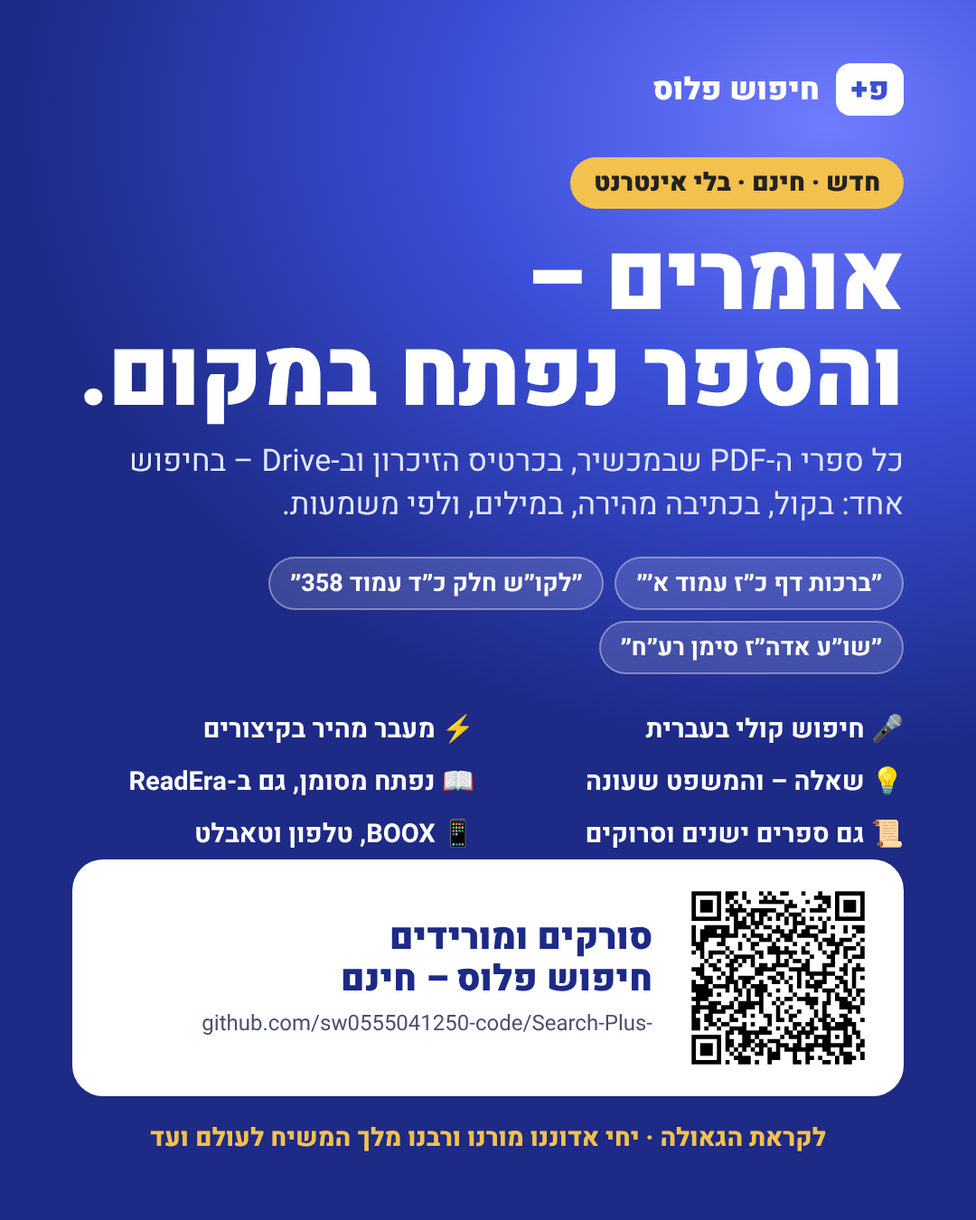
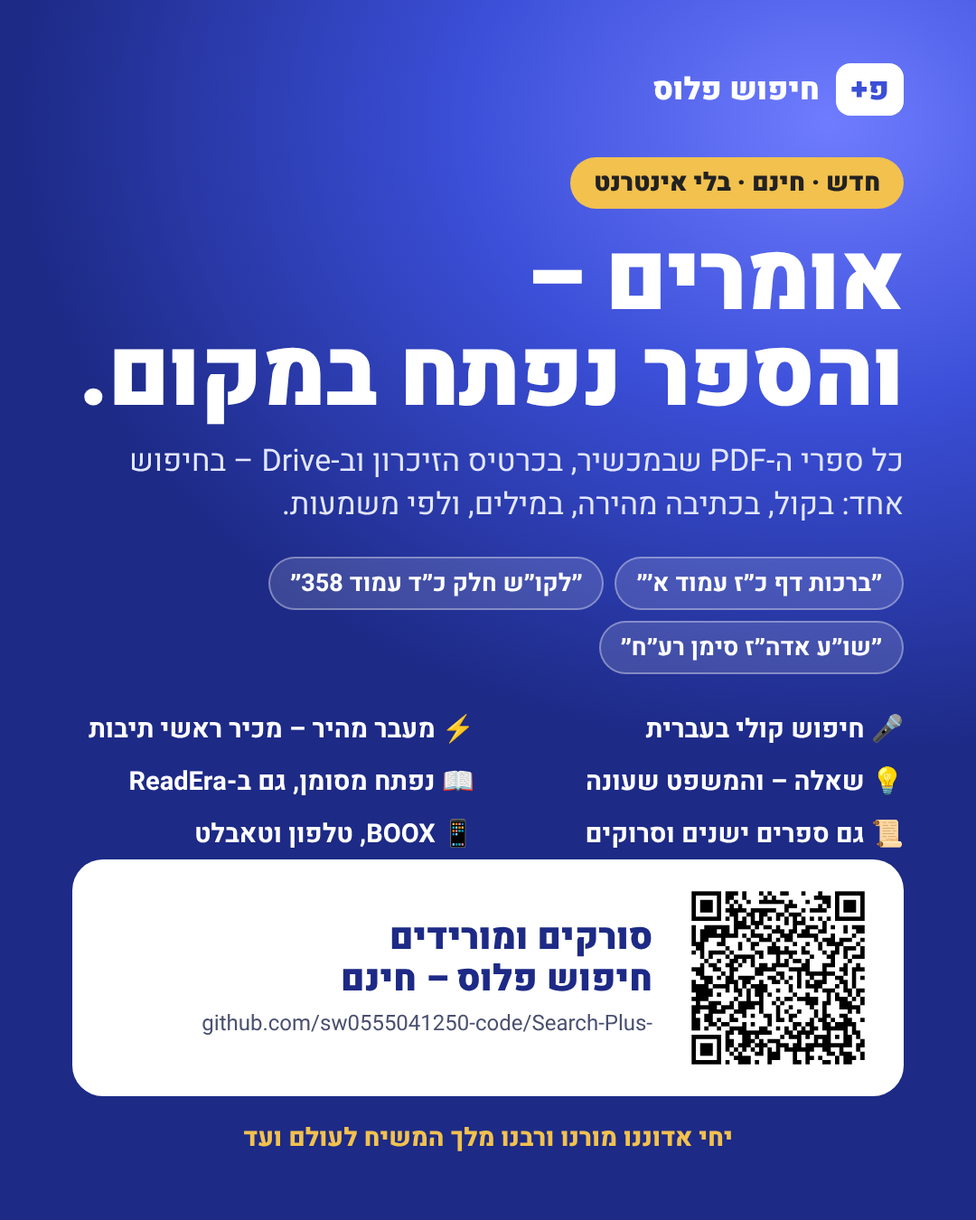
Abbreviations dictionary (used for requests and folder names, browsable, per-page list in the reader); highlight stays strong until touched and matches final-letter forms; ReadEra opens on the found place also for references; Hebrew date; recent jumps; ad without 'לקראת הגאולה'
Claude-Session: https://claude.ai/code/session_013GBbTro2UFnYemsgGubrVq

Changed region(s): [[0.1528, 0.9022, 0.8556, 0.9644], [0.0917, 0.5911, 0.3056, 0.6222]]

diff --git a/core/src/main/kotlin/com/chdv/searchplus/core/Abbr.kt b/core/src/main/kotlin/com/chdv/searchplus/core/Abbr.kt
@@ -1,0 +1,88 @@
+package com.chdv.searchplus.core
+
+/**
+ * ראשי תיבות – abbreviations used in Torah books, in Chabad above all, with their full forms.
+ * Used three ways: to understand a request ("שו״ע אדה״ז"), to understand folder and file names
+ * (a folder "אדה״ז" holds the books of אדמו״ר הזקן), and as a dictionary the user can look up.
+ * Keys are written without quote marks (the way RefParser.normalize leaves them).
+ */
+object Abbr {
+    val MAP: Map<String, String> = linkedMapOf(
+        // רבותינו נשיאינו
+        "אדהז" to "אדמו״ר הזקן", "אדמוהז" to "אדמו״ר הזקן", "רבנו הזקן" to "אדמו״ר הזקן", "בעל התניא" to "אדמו״ר הזקן",
+        "אדהאמ" to "אדמו״ר האמצעי", "אדמוהאמ" to "אדמו״ר האמצעי",
+        "אדמצ" to "אדמו״ר הצמח צדק", "אדמוצ" to "אדמו״ר הצמח צדק", "צצ" to "הצמח צדק", "הצצ" to "הצמח צדק",
+        "מהרש" to "אדמו״ר מהר״ש", "אדמוהרש" to "אדמו״ר מהר״ש",
+        "רשב" to "אדמו״ר הרש״ב", "אדמוהרשב" to "אדמו״ר הרש״ב", "מוהרשב" to "אדמו״ר הרש״ב",
+        "ריצ" to "אדמו״ר הריי״צ", "רייצ" to "אדמו״ר הריי״צ", "אדמוהריצ" to "אדמו״ר הריי״צ", "מוהריצ" to "אדמו״ר הריי״צ", "מוהרייצ" to "אדמו״ר הריי״צ",
+        "כק" to "כבוד קדושת", "כקאדמור" to "כבוד קדושת אדמו״ר", "אדמור" to "אדוננו מורנו ורבנו",
+        "שליטא" to "שיחיה לאורך ימים טובים אמן", "נע" to "נשמתו עדן", "זיע" to "זכותו יגן עלינו", "זצל" to "זכר צדיק לברכה",
+        "זל" to "זכרונו לברכה", "עה" to "עליו השלום", "נבגם" to "נשמתו בגנזי מרומים", "מהמ" to "מלך המשיח",
+        // ספרים
+        "לקוש" to "ליקוטי שיחות", "ליקוש" to "ליקוטי שיחות", "תומ" to "תורת מנחם", "אגק" to "אגרות קודש", "סהמ" to "ספר המאמרים",
+        "סהש" to "ספר השיחות", "לקות" to "ליקוטי תורה", "תוא" to "תורה אור", "דמח" to "דרך מצוותיך", "מאהז" to "מאמרי אדמו״ר הזקן",
+        "שוע" to "שולחן ערוך", "שעהר" to "שולחן ערוך הרב", "קצשוע" to "קיצור שולחן ערוך", "משב" to "משנה ברורה", "מב" to "משנה ברורה",
+        "רמבם" to "רמב״ם", "רמבן" to "רמב״ן", "רשי" to "רש״י", "תוס" to "תוספות", "מהרשא" to "מהרש״א", "שך" to "ש״ך", "טז" to "ט״ז",
+        "בהג" to "באר היטב", "שות" to "שאלות ותשובות", "חזל" to "חכמינו זכרונם לברכה", "תנך" to "תורה נביאים כתובים",
+        "שס" to "שישה סדרים (תלמוד)", "ספהמ" to "ספר המצוות", "פיהמ" to "פירוש המשניות",
+        "אוח" to "אורח חיים", "יוד" to "יורה דעה", "אהע" to "אבן העזר", "חומ" to "חושן משפט",
+        "בק" to "בבא קמא", "במ" to "בבא מציעא", "בב" to "בבא בתרא", "עז" to "עבודה זרה", "רה" to "ראש השנה", "יוהכ" to "יום הכיפורים",
+        // מונחים
+        "ע״א" to "עמוד א", "עא" to "עמוד א", "עב" to "עמוד ב", "סע" to "סעיף", "סי" to "סימן", "פ" to "פרק", "ח״א" to "חלק א",
+        "עיי״ש" to "עיין שם", "עיש" to "עיין שם", "וכו" to "וכולי", "וכמש״נ" to "וכמו שנתבאר", "כמשנ" to "כמו שנתבאר", "כנל" to "כנזכר לעיל",
+        "ס״ה" to "סך הכל", "סה" to "סך הכל", "וז״ל" to "וזה לשונו", "וזל" to "וזה לשונו",
+        "עכ״ל" to "עד כאן לשונו", "עכל" to "עד כאן לשונו", "אא״כ" to "אלא אם כן", "אאכ" to "אלא אם כן", "בד״כ" to "בדרך כלל", "בדכ" to "בדרך כלל",
+        "דוקא" to "דווקא", "הקב״ה" to "הקדוש ברוך הוא", "הקבה" to "הקדוש ברוך הוא", "ית׳" to "יתברך", "יתב" to "יתברך", "אוא״ס" to "אור אין סוף", "אואס" to "אור אין סוף",
+        "א״ס" to "אין סוף", "אס" to "אין סוף", "ב״ה" to "ברוך השם", "בה" to "ברוך השם", "בעזה״י" to "בעזרת השם יתברך", "בעזהי" to "בעזרת השם יתברך",
+        "בס״ד" to "בסייעתא דשמיא", "בסד" to "בסייעתא דשמיא", "אי״ה" to "אם ירצה השם", "איה" to "אם ירצה השם", "בל״נ" to "בלי נדר", "בלנ" to "בלי נדר",
+        "ז״א" to "זאת אומרת / זעיר אנפין", "זא" to "זאת אומרת", "כו״כ" to "כמה וכמה", "כוכ" to "כמה וכמה", "מ״מ" to "מכל מקום", "ממ" to "מכל מקום",
+        "מ״ש" to "מה שכתוב", "מש" to "מה שכתוב", "ע״ד" to "על דרך", "עד" to "על דרך", "ע״פ" to "על פי", "עפ" to "על פי", "עפ״ז" to "על פי זה",
+        "ע״י" to "על ידי", "עי" to "על ידי", "ע״ז" to "על זה", "עפ״י" to "על פי", "עפי" to "על פי", "ר״ל" to "רוצה לומר", "רל" to "רוצה לומר",
+        "צ״ל" to "צריך לומר", "צל" to "צריך לומר", "צ״ע" to "צריך עיון", "צע" to "צריך עיון", "ק״ו" to "קל וחומר", "קו" to "קל וחומר",
+        "וד״ל" to "ודי למבין", "ודל" to "ודי למבין", "ואכ״מ" to "ואין כאן מקומו", "ואכמ" to "ואין כאן מקומו",
+        "ע״ה" to "עם הארץ", "ת״ח" to "תלמיד חכם", "תח" to "תלמיד חכם", "ת״ת" to "תלמוד תורה", "תת" to "תלמוד תורה", "יר״ש" to "ירא שמים", "ירש" to "ירא שמים",
+        "אה״ק" to "ארץ הקודש", "אהק" to "ארץ הקודש", "אהי״ש" to "אור החיים", "מס״נ" to "מסירות נפש", "מסנ" to "מסירות נפש", "קב״ע" to "קבלת עול", "קבע" to "קבלת עול",
+        "חב״ד" to "חכמה בינה דעת", "חבד" to "חכמה בינה דעת", "חג״ת" to "חסד גבורה תפארת", "חגת" to "חסד גבורה תפארת", "נה״י" to "נצח הוד יסוד", "נהי" to "נצח הוד יסוד",
+        "זו״נ" to "זעיר אנפין ונוקבא", "זון" to "זעיר אנפין ונוקבא", "או״א" to "אבא ואמא", "אוא" to "אבא ואמא", "אצי״ע" to "אצילות בריאה יצירה עשיה", "אביע" to "אצילות בריאה יצירה עשיה",
+        "נה״ב" to "נפש הבהמית", "נהב" to "נפש הבהמית", "נה״א" to "נפש האלקית", "נהא" to "נפש האלקית", "יחו״ע" to "יחודא עילאה", "יחו״ת" to "יחודא תתאה",
+        "ג״ע" to "גן עדן", "גע" to "גן עדן", "גה״ע" to "גן עדן", "תחה״מ" to "תחיית המתים", "תחהמ" to "תחיית המתים", "ביהמ״ק" to "בית המקדש", "ביהמק" to "בית המקדש",
+        "ביהכנ״ס" to "בית הכנסת", "ביהכנס" to "בית הכנסת", "ביהמ״ד" to "בית המדרש", "ביהמד" to "בית המדרש", "אנ״ש" to "אנשי שלומנו", "אנש" to "אנשי שלומנו",
+        "תשב״כ" to "תורה שבכתב", "תשבכ" to "תורה שבכתב", "תשבע״פ" to "תורה שבעל פה", "תשבעפ" to "תורה שבעל פה", "מצו״ע" to "מצוות עשה", "מ״ע" to "מצוות עשה",
+        "מל״ת" to "מצוות לא תעשה", "מלת" to "מצוות לא תעשה", "יו״ט" to "יום טוב", "יוט" to "יום טוב", "חוה״מ" to "חול המועד", "חוהמ" to "חול המועד", "ר״ח" to "ראש חודש", "רח" to "ראש חודש",
+        "שמחת״ת" to "שמחת תורה", "ער״ה" to "ערב ראש השנה", "יוהכ״פ" to "יום הכיפורים",
+        "פ׳" to "פרשת", "פר׳" to "פרשת", "ש״פ" to "שבת פרשת", "שפ" to "שבת פרשת", "מוצש״ק" to "מוצאי שבת קודש", "מוצשק" to "מוצאי שבת קודש", "ש״ק" to "שבת קודש", "שק" to "שבת קודש",
+    )
+
+    private val norm: Map<String, String> = MAP.mapKeys { RefParser.normalize(it.key) }.filterKeys { it.length >= 2 }
+
+    /** Full form of one abbreviation (null if unknown). */
+    fun of(word: String): String? = norm[RefParser.normalize(word)]
+
+    /**
+     * Text with the abbreviations that matter for finding books written out ("שו״ע אדה״ז" → "שולחן ערוך אדמו״ר הזקן").
+     * Only words that were written as abbreviations (with ״ or ׳, or known book/author abbreviations) are expanded.
+     */
+    fun expand(text: String): String {
+        val words = text.split(Regex("\\s+")).filter { it.isNotEmpty() }
+        return words.joinToString(" ") { w ->
+            val key = RefParser.normalize(w)
+            val hasMark = w.contains('"') || w.contains('״') || w.contains('\'') || w.contains('׳')
+            val full = norm[key]
+            if (full != null && key !in KEEP && (hasMark || key in BOOKS_AND_PEOPLE)) full else w
+        }
+    }
+
+    /** Titles that are part of names and stay as they are ("אדמו״ר הזקן", "כ״ק"). */
+    private val KEEP = setOf("אדמור", "כק", "כקאדמור", "עא", "עב", "סע", "סי")
+
+    /** Abbreviations that are expanded even when written without quote marks (they are not ordinary words). */
+    private val BOOKS_AND_PEOPLE = setOf("אדהז", "אדמוהז", "אדהאמ", "אדמצ", "אדמוצ", "מהרש", "רשב", "מוהרשב", "רייצ", "מוהריצ", "מוהרייצ",
+        "לקוש", "ליקוש", "תומ", "אגק", "סהמ", "סהש", "לקות", "תוא", "דמח", "שוע", "שעהר", "קצשוע", "אוח", "יוד", "אהע", "חומ", "רמבם", "שליטא")
+
+    /** Search the dictionary (by abbreviation or by meaning). */
+    fun lookup(q: String): List<Pair<String, String>> {
+        val n = RefParser.normalize(q)
+        if (n.isBlank()) return MAP.entries.map { it.key to it.value }.distinctBy { it.second + it.first.length }
+        return MAP.entries.filter { (k, v) -> RefParser.normalize(k).contains(n) || v.contains(q.trim()) }.map { it.key to it.value }
+    }
+}

diff --git a/app/src/main/java/com/chdv/searchplus/ReaderActivity.kt b/app/src/main/java/com/chdv/searchplus/ReaderActivity.kt
@@ -279,9 +279,11 @@ class ReaderActivity : BaseActivity() {
             }
             if (best >= 0 && bestScore >= minOf(3, n)) return words.subList(best, minOf(words.size, best + n)).map { it.second }
         }
-        val want = terms.map { it.removeSuffix("*") }.filter { it.isNotEmpty() }
+        // final letters compared as regular ones (מלך / מלכים), so every form of the word is marked
+        fun fin(x: String) = x.replace('ך', 'כ').replace('ם', 'מ').replace('ן', 'נ').replace('ף', 'פ').replace('ץ', 'צ')
+        val want = terms.map { fin(it.removeSuffix("*")) }.filter { it.isNotEmpty() }
         val minLen = if (want.size == 1) 1 else 2
-        return words.filter { (w, _) -> want.any { it.length >= minLen && w.contains(it) } }.map { it.second }
+        return words.filter { (w, _) -> val fw = fin(w); want.any { it.length >= minLen && fw.contains(it) } }.map { it.second }
     }
 
     private fun next() { if (page < pageCount) { page++; show() } }
@@ -335,6 +337,18 @@ class ReaderActivity : BaseActivity() {
                 val on = Library.toggleFavorite(key); toast(if (on) "נוסף למועדפים" else "הוסר מהמועדפים")
             })
             items.add("📄 תצוגת טקסט – שורות מסודרות" to { textView() })
+            items.add("📖 ראשי תיבות בעמוד הזה" to {
+                val t = Db.get().bookByPath(p)?.let { Db.get().pageText(it.id, page) }
+                val ab = if (t.isNullOrBlank()) emptyList() else AbbrActivity.onPage(t)
+                if (ab.isEmpty()) toast("לא נמצאו ראשי תיבות מוכרים בעמוד הזה")
+                else {
+                    val box = vbox().apply { setPadding(dp(16), dp(14), dp(16), dp(14)) }
+                    box.addView(label("ראשי תיבות בעמוד $page", 18f, Col.TEXT, true))
+                    val l = vbox(); ab.forEach { (k, v) -> l.addView(AbbrActivity.row(this, k, v)) }
+                    box.addView(android.widget.ScrollView(this).apply { addView(l) }, lp(MATCH, dp(420)).m(0, dp(8), 0, 0))
+                    Sheet.make(this, box).show()
+                }
+            })
             items.add("העתקת הטקסט של העמוד" to { copyPage() })
             items.add("שיתוף הקובץ" to {
                 val i = Intent(Intent.ACTION_SEND).setType("application/pdf")
@@ -445,6 +459,16 @@ class PageView(c: Context) : View(c) {
     private val mark = Paint(Paint.ANTI_ALIAS_FLAG).apply { color = if (Col.isEink) 0xFF000000.toInt() else 0xFFE65100.toInt(); style = Paint.Style.FILL }
     /** 0..1 – the "look here" pulse after the words were found */
     private var pulse = 0f
+    /** Strong marking, until the first touch. */
+    private var emph = false
+
+    /** The user touched the page: the marking stays, quieter. */
+    fun calm() {
+        if (!emph) return
+        emph = false
+        pulseAnim?.cancel(); pulse = 0f
+        invalidate()
+    }
     private var pulseAnim: android.animation.ValueAnimator? = null
 
     /** Words next to each other on the same line become one box, so a whole phrase is framed together. */
@@ -481,11 +505,12 @@ class PageView(c: Context) : View(c) {
             ty = height / 3f - f.centerY() * s
             clamp()
         }
-        // pulse a few times: "it is here"
+        // "it is here": strong until the user touches the page; on colour screens it keeps breathing
+        emph = rects.isNotEmpty()
         pulseAnim?.cancel()
         pulseAnim = android.animation.ValueAnimator.ofFloat(0f, 1f, 0f).apply {
-            duration = if (Col.isEink) 900 else 650
-            repeatCount = 2
+            duration = if (Col.isEink) 900 else 1100
+            repeatCount = if (Col.isEink) 2 else android.animation.ValueAnimator.INFINITE
             addUpdateListener { pulse = it.animatedValue as Float; invalidate() }
             addListener(object : android.animation.AnimatorListenerAdapter() { override fun onAnimationEnd(a: android.animation.Animator) { pulse = 0f; invalidate() } })
             start()
@@ -518,7 +543,8 @@ class PageView(c: Context) : View(c) {
         canvas.scale(s, s)
         canvas.drawBitmap(b, 0f, 0f, paint)
         val d = context.resources.displayMetrics.density
-        hlLine.strokeWidth = (2.5f + 3f * pulse) * d / s
+        hlLine.strokeWidth = ((if (emph) 4f else 2f) + 3f * pulse) * d / s
+        hl.color = if (Col.isEink) (if (emph) 0x55000000 else 0x30000000) else (if (emph) 0x88FFB300.toInt() else 0x50FFB300)
         val grow = 6f * pulse * d / s
         val rad = 5f * d / s
         for (r in rects) {
@@ -536,6 +562,7 @@ class PageView(c: Context) : View(c) {
 
     private val scaleDet = ScaleGestureDetector(c, object : ScaleGestureDetector.SimpleOnScaleGestureListener() {
         override fun onScale(d: ScaleGestureDetector): Boolean {
+            calm()
             val nz = (zoom * d.scaleFactor).coerceIn(1f, 5f)
             val f = nz / zoom
             tx = d.focusX - (d.focusX - tx) * f
@@ -548,6 +575,7 @@ class PageView(c: Context) : View(c) {
 
     private val gest = GestureDetector(c, object : GestureDetector.SimpleOnGestureListener() {
         override fun onSingleTapConfirmed(e: MotionEvent): Boolean {
+            calm()
             if (!zoomed()) onTap?.invoke(e.x / width.coerceAtLeast(1))
             else onTap?.invoke(0.5f)
             return true
@@ -561,6 +589,7 @@ class PageView(c: Context) : View(c) {
             return true
         }
         override fun onScroll(e1: MotionEvent?, e2: MotionEvent, dx: Float, dy: Float): Boolean {
+            calm()
             if (!zoomed()) return false
             tx -= dx; ty -= dy; invalidate(); return true
         }

diff --git a/app/src/main/java/com/chdv/searchplus/AbbrActivity.kt b/app/src/main/java/com/chdv/searchplus/AbbrActivity.kt
@@ -1,0 +1,71 @@
+package com.chdv.searchplus
+
+import android.app.Activity
+import android.os.Bundle
+import android.view.View
+import android.widget.EditText
+import android.widget.LinearLayout
+import android.widget.ScrollView
+import com.chdv.searchplus.core.Abbr
+
+/** מילון ראשי תיבות: look up any abbreviation, or by its meaning. The same dictionary the search uses. */
+class AbbrActivity : BaseActivity() {
+    private lateinit var list: LinearLayout
+
+    override fun onCreate(savedInstanceState: Bundle?) {
+        super.onCreate(savedInstanceState)
+        val box = vbox().apply { setPadding(dp(14), dp(10), dp(14), dp(30)) }
+        box.addView(vbox().apply {
+            background = Col.gradient(Col.TILES[1].first, Col.TILES[1].second, dp(20).toFloat())
+            setPadding(dp(18), dp(16), dp(18), dp(16))
+            addView(label("📖 מילון ראשי תיבות", 21f, android.graphics.Color.WHITE, true))
+            addView(label("אדה״ז, צ״צ, לקו״ש, שליט״א, עכ״ל… – כותבים, ורואים מה הפירוש. החיפוש בתוכנה מכיר את כולם.", 14f, 0xEEFFFFFF.toInt()).apply { setPadding(0, dp(6), 0, 0) })
+        }, lp(MATCH, WRAP).m(0, dp(4), 0, dp(12)))
+        val q = EditText(this).apply {
+            hint = "ראשי תיבות או מילה…"; setSingleLine(); textDirection = View.TEXT_DIRECTION_RTL
+            background = roundBg(Col.CARD, dp(20).toFloat(), dp(1.5f), Col.ACC); setPadding(dp(16), dp(10), dp(16), dp(10))
+        }
+        box.addView(q, lp(MATCH, WRAP))
+        list = vbox()
+        box.addView(list, lp(MATCH, WRAP).m(0, dp(10), 0, 0))
+        q.addTextChangedListener(object : android.text.TextWatcher {
+            override fun beforeTextChanged(s: CharSequence?, a: Int, b: Int, c: Int) {}
+            override fun onTextChanged(s: CharSequence?, a: Int, b: Int, c: Int) {}
+            override fun afterTextChanged(e: android.text.Editable?) { show(e.toString()) }
+        })
+        screen("📖 ראשי תיבות", ScrollView(this).apply { addView(box) })
+        show("")
+    }
+
+    private fun show(q: String) {
+        list.removeAllViews()
+        val items = Abbr.lookup(q).distinctBy { it.second + "|" + it.first.replace("\"", "").replace("״", "") }.take(200)
+        if (items.isEmpty()) { list.addView(label("לא נמצא במילון.", 15f, Col.SUB)); return }
+        for ((k, v) in items) list.addView(row(this, k, v))
+    }
+
+    companion object {
+        fun row(a: Activity, k: String, v: String): View = a.hbox().apply {
+            setPadding(a.dp(12), a.dp(10), a.dp(12), a.dp(10))
+            background = roundBg(Col.CARD, a.dp(12).toFloat(), a.dp(1), Col.LINE)
+            addView(a.label(pretty(k), 17f, Col.ACC, true), lp(a.dp(110), WRAP))
+            addView(a.label(v, 16f, Col.TEXT), lp(0, WRAP, 1f))
+            layoutParams = lp(MATCH, WRAP).m(0, a.dp(3), 0, a.dp(3))
+        }
+
+        /** "אדהז" → "אדה״ז" for display. */
+        fun pretty(k: String): String =
+            if (k.contains('״') || k.contains('׳') || k.contains(' ') || k.length < 2) k else k.dropLast(1) + "״" + k.last()
+
+        /** The abbreviations that appear on a page, with their meaning. */
+        fun onPage(text: String): List<Pair<String, String>> {
+            val out = LinkedHashMap<String, String>()
+            for (w in text.split(Regex("[\\s,.:;()\\[\\]]+"))) {
+                if (!(w.contains('"') || w.contains('״') || w.contains('\'') || w.contains('׳'))) continue
+                val m = Abbr.of(w) ?: Abbr.of(w.drop(1))?.let { "${w.first()}+ $it" } ?: continue
+                out.putIfAbsent(w.trim('\'', '׳'), m)
+            }
+            return out.entries.map { it.key to it.value }
+        }
+    }
+}

diff --git a/app/src/main/java/com/chdv/searchplus/VoiceActivity.kt b/app/src/main/java/com/chdv/searchplus/VoiceActivity.kt
@@ -85,10 +85,18 @@ class VoiceActivity : BaseActivity() {
         results = vbox()
         box.addView(results, lp(MATCH, WRAP))
 
+        // recent searches – one tap away
+        val hist = Library.history().take(8)
+        if (hist.isNotEmpty()) {
+            box.addView(label("🕘 אחרונים", 13.5f, Col.SUB, true).apply { setPadding(0, dp(16), 0, dp(4)) })
+            val hf = FlowLayout(this)
+            hist.forEach { h -> hf.addView(chip(h, false) { heard.setText(h); handle(h, true) }) }
+            box.addView(hf, lp(MATCH, WRAP))
+        }
         // examples
-        box.addView(label("אפשר לומר למשל", 13.5f, Col.SUB, true).apply { setPadding(0, dp(16), 0, dp(4)) })
+        box.addView(label(if (typing) "אפשר לכתוב למשל" else "אפשר לומר למשל", 13.5f, Col.SUB, true).apply { setPadding(0, dp(16), 0, dp(4)) })
         val ex = FlowLayout(this)
-        listOf("ברכות דף כ״ז עמוד א", "ליקוטי שיחות חלק ד עמוד 58", "ליקוטי שיחות חלק ד שיחה לפרשת נח", "תניא פרק ה", "שולחן ערוך אורח חיים סימן קכח", "מה מברכים על פרי העץ").forEach { e ->
+        listOf("ברכות דף כ״ז עמוד א", "לקו״ש חלק כ״ד עמוד 358", "ליקוטי שיחות חלק ד שיחה לפרשת נח", "שו״ע אדה״ז סימן רע״ח", "תניא פרק ה", "מה מברכים על פרי העץ").forEach { e ->
             ex.addView(chip("“$e”", false) { heard.setText(e); handle(e, false) })
         }
         box.addView(ex, lp(MATCH, WRAP))

diff --git a/docs/ad/ad.html b/docs/ad/ad.html
@@ -32,7 +32,7 @@ h1 { font-size: 104px; line-height: 1.02; margin: 26px 0 18px; font-weight: 900;
   <p class="lead">כל ספרי ה-PDF שבמכשיר, בכרטיס הזיכרון וב-Drive – בחיפוש אחד: בקול, בכתיבה מהירה, במילים, ולפי משמעות.</p>
   <div class="say"><span>״ברכות דף כ״ז עמוד א׳״</span><span>״לקו״ש חלק כ״ד עמוד 358״</span><span>״שו״ע אדה״ז סימן רע״ח״</span></div>
   <div class="feats">
-    <div>🎤 חיפוש קולי בעברית</div><div>⚡ מעבר מהיר בקיצורים</div>
+    <div>🎤 חיפוש קולי בעברית</div><div>⚡ מעבר מהיר – מכיר ראשי תיבות</div>
     <div>💡 שאלה – והמשפט שעונה</div><div>📖 נפתח מסומן, גם ב-ReadEra</div>
     <div>📜 גם ספרים ישנים וסרוקים</div><div>📱 BOOX, טלפון וטאבלט</div>
   </div>
@@ -40,6 +40,6 @@ h1 { font-size: 104px; line-height: 1.02; margin: 26px 0 18px; font-weight: 900;
     <img src="qr.png" alt="">
     <div><div class="t">סורקים ומורידים<br>חיפוש פלוס – חינם</div><div class="s" dir="ltr" style="text-align:right">github.com/sw0555041250-code/Search-Plus-</div></div>
   </div>
-  <div class="moshiach">לקראת הגאולה · יחי אדוננו מורנו ורבנו מלך המשיח לעולם ועד</div>
+  <div class="moshiach">יחי אדוננו מורנו ורבנו מלך המשיח לעולם ועד</div>
 </div></body>
 </html>

diff --git a/app/src/main/java/com/chdv/searchplus/Ui.kt b/app/src/main/java/com/chdv/searchplus/Ui.kt
@@ -360,3 +360,17 @@ fun human(size: Long): String = when {
     size >= 1L shl 10 -> String.format("%d KB", size shr 10)
     else -> "$size B"
 }
+
+
+/** Today's Hebrew date, e.g. "יום ג׳ · י״ג כסלו תשפ״ז" (after nightfall it is already the next day only in the calendar, not here). */
+fun hebrewDate(): String = try {
+    val cal = android.icu.util.HebrewCalendar()
+    val day = cal.get(android.icu.util.Calendar.DAY_OF_MONTH)
+    val m = cal.get(android.icu.util.Calendar.MONTH)
+    val y = cal.get(android.icu.util.Calendar.YEAR)
+    val leap = ((7 * y + 1) % 19) < 7
+    val months = arrayOf("תשרי", "חשון", "כסלו", "טבת", "שבט", "אדר א׳", if (leap) "אדר ב׳" else "אדר", "ניסן", "אייר", "סיון", "תמוז", "אב", "אלול")
+    fun g(n: Int): String { val h = com.chdv.searchplus.core.HebNum.toHeb(n); return if (h.length == 1) h + "׳" else h.dropLast(1) + "״" + h.last() }
+    val dow = arrayOf("ראשון", "שני", "שלישי", "רביעי", "חמישי", "שישי", "שבת קודש")[java.util.Calendar.getInstance().get(java.util.Calendar.DAY_OF_WEEK) - 1]
+    (if (dow.startsWith("שבת")) dow else "יום $dow") + " · " + g(day) + " " + months[m] + " " + g(y % 1000)
+} catch (e: Throwable) { "" }

diff --git a/app/src/main/java/com/chdv/searchplus/SettingsActivity.kt b/app/src/main/java/com/chdv/searchplus/SettingsActivity.kt
@@ -176,7 +176,7 @@ class SettingsActivity : BaseActivity() {
             }
         }
         if (ow == "external") {
-            toggle("לפתוח את העמוד שנמצא – מסומן", "האפליקציה (ReadEra וכו׳) מקבלת את העמוד שנמצא ו-4 העמודים שאחריו, עם המילים מסומנות בצהוב. כבוי = הספר המלא", "excerpt", true)
+            toggle("לפתוח את העמוד שנמצא – מסומן", "האפליקציה (ReadEra וכו׳) נפתחת ישר על העמוד שנמצא (ועוד 4 אחריו), עם המילים מסומנות בצהוב. כבוי = הספר המלא מההתחלה", "excerpt", true)
             toggle("העתקת מילות החיפוש בפתיחה", "כדי להדביק אותן בחיפוש של הקורא", "copyTerms", true)
         }
         val th = Prefs.s("theme", "auto")

diff --git a/app/src/main/java/com/chdv/searchplus/Nav.kt b/app/src/main/java/com/chdv/searchplus/Nav.kt
@@ -27,6 +27,7 @@ object Nav {
         Item("📚", "עיון בספרים", "תיקיות וקטגוריות", { a -> a.startActivity(Intent(a, BrowseActivity::class.java)) }),
         Item("🗂", "סידור המאגר", "כפולים · סידור תיקיות · שמות חכמים", { a -> a.startActivity(Intent(a, OrganizeActivity::class.java)) }),
         Item("☁", "ספרים מ-Google Drive", "מביאים את המאגר מהענן ומחפשים בו", { a -> a.startActivity(Intent(a, CloudActivity::class.java)) }),
+        Item("📖", "מילון ראשי תיבות", "אדה״ז, צ״צ, לקו״ש, שליט״א…", { a -> a.startActivity(Intent(a, AbbrActivity::class.java)) }),
         Item("⚙", "הגדרות", "מודלים · פתיחת ספרים · עדכונים", { a -> a.startActivity(Intent(a, SettingsActivity::class.java)) }),
     )
 

diff --git a/core/src/test/kotlin/com/chdv/searchplus/core/HebRefTest.kt b/core/src/test/kotlin/com/chdv/searchplus/core/HebRefTest.kt
@@ -98,6 +98,10 @@ class HebRefTest {
         assertEquals("שולחן ערוך הרב", RefParser.parse("שו\"ע אדה\"ז סימן ב")!!.work)
         val ls24 = RefParser.parse("שיחה לפרשת ויצא ליקוטי שיחות חלק כ\"ד עמוד 358")!!
         assertEquals(24, ls24.volume); assertEquals(358, ls24.page)
+        assertEquals("שולחן ערוך הרב", RefParser.parse("שוע אדהז סימן א")!!.work)
+        assertEquals("אדמו״ר הצמח צדק", Abbr.of("אדמ\"צ"))
+        assertEquals("שיחיה לאורך ימים טובים אמן", Abbr.of("שליט\"א"))
+        assertEquals(27, RefParser.parse("ברכות כ\"ז ע\"א")!!.daf)
         assertNull(RefParser.parse("מה הדין של מי ששכח לברך"))
         assertNull(RefParser.parse("רבי שמעון בר יוחאי"))
     }

diff --git a/app/src/main/java/com/chdv/searchplus/Jump.kt b/app/src/main/java/com/chdv/searchplus/Jump.kt
@@ -15,7 +15,13 @@ object Jump {
         val note: String get() = if (exact) "עמוד $page" else "עמוד $page (משוער – אפשר לתקן בקורא)"
     }
 
-    private fun norm(s: String) = " " + RefParser.normalize(s.replace('_', ' ').replace('-', ' ').replace('.', ' ')) + " "
+    /** Names of files and folders, with their abbreviations written out (a folder "אדה״ז" = אדמו״ר הזקן). */
+    private fun norm(s: String): String {
+        val t = s.replace('_', ' ').replace('-', ' ').replace('.', ' ')
+        val n = RefParser.normalize(t)
+        val e = RefParser.normalize(com.chdv.searchplus.core.Abbr.expand(t))
+        return " " + (if (e != n) "$n $e" else n) + " "
+    }
 
     private fun has(hay: String, phrase: String): Boolean {
         val p = RefParser.normalize(phrase)

diff --git a/app/src/main/java/com/chdv/searchplus/Excerpt.kt b/app/src/main/java/com/chdv/searchplus/Excerpt.kt
@@ -99,7 +99,9 @@ object Excerpt {
             }
             if (best >= 0 && bestScore >= minOf(3, n)) return words.subList(best, minOf(words.size, best + n)).map { it.second }
         }
-        val want = terms.map { it.removeSuffix("*") }.filter { it.length > 1 }
-        return words.filter { (w, _) -> want.any { w.contains(it) } }.map { it.second }
+        // final letters compared as regular ones (מלך / מלכים), so every form of the word is marked
+        fun fin(x: String) = x.replace('ך', 'כ').replace('ם', 'מ').replace('ן', 'נ').replace('ף', 'פ').replace('ץ', 'צ')
+        val want = terms.map { fin(it.removeSuffix("*")) }.filter { it.length > 1 }
+        return words.filter { (w, _) -> val fw = fin(w); want.any { fw.contains(it) } }.map { it.second }
     }
 }

diff --git a/app/src/main/java/com/chdv/searchplus/Library.kt b/app/src/main/java/com/chdv/searchplus/Library.kt
@@ -156,7 +156,8 @@ object Library {
      */
     fun openExternal(a: Activity, path: String, page: Int, terms: List<String> = emptyList(), chooser: Boolean = false, phrase: String? = null) {
         // the app can't be told the page and the words: give it the found page, marked, as a small PDF
-        if ((terms.isNotEmpty() || phrase != null) && Prefs.b("excerpt", true)) {
+        // also for a place without search words (ליקוטי שיחות חלק כד עמוד 358): the app gets that page first
+        if ((terms.isNotEmpty() || phrase != null || page > 1) && Prefs.b("excerpt", true)) {
             a.toast("מכין את העמוד המסומן…")
             Thread {
                 val ex = Excerpt.make(a, path, page, terms, phrase)
